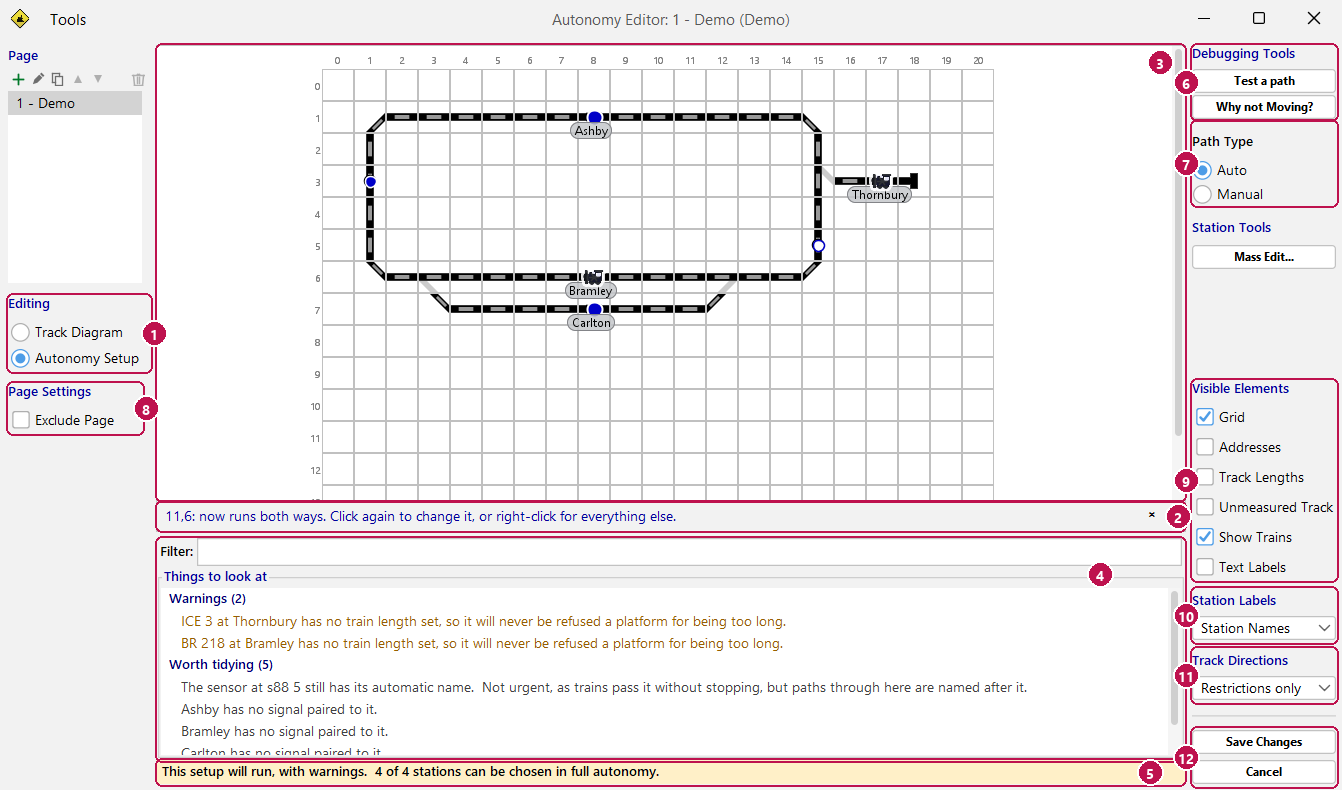
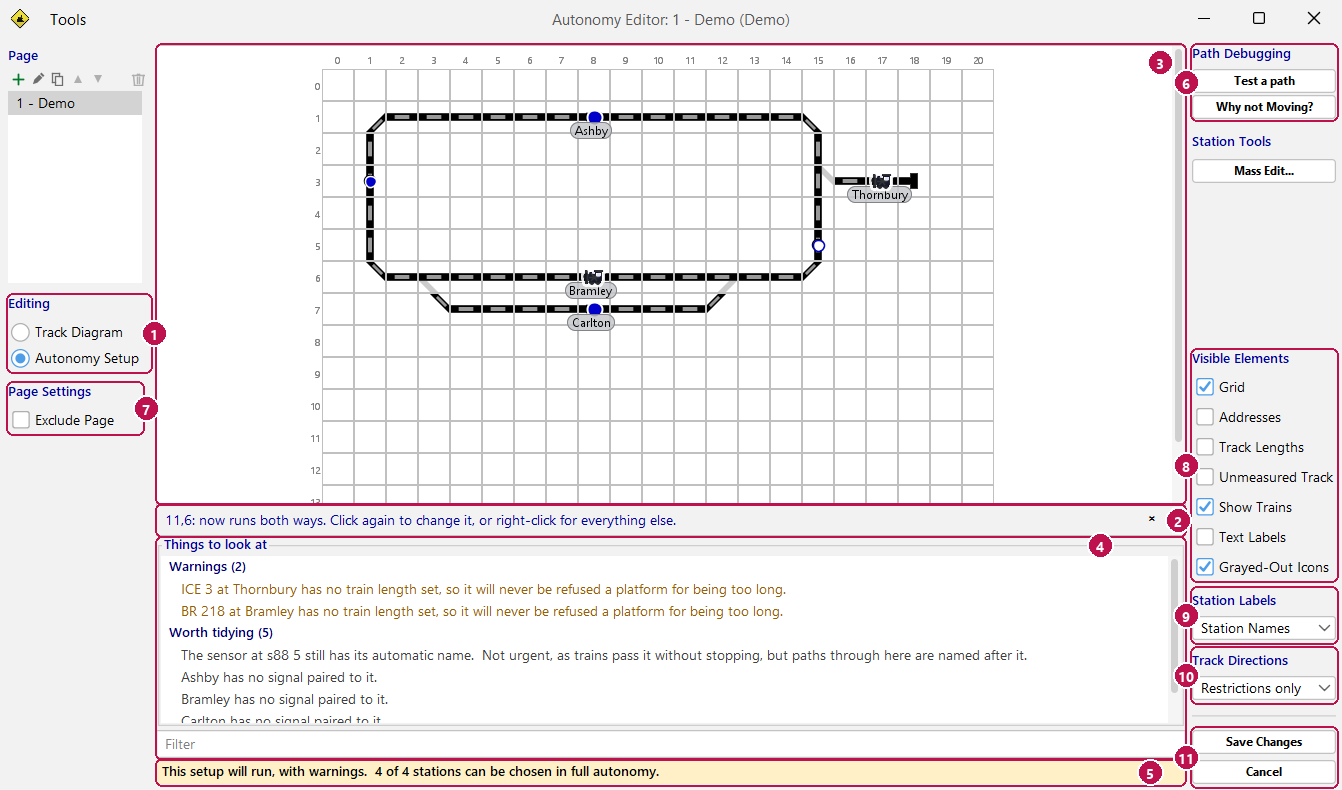
OB-495: guide pictures retaken for 3.1.1, and the keyboard pictures get FR-200's keys
Automation.md: 01-editor (Path Debugging, no Path Type, Station Tools under it,
Grayed-Out Icons, the Filter box under the list; renumbered 1 to 11 in the
list's order), 07 and 08 (the new right column; Why not Moving? as a table),
station_settings, 10 and 11 (the length box with arrows and Any, Advanced's *,
no arrival arrows where every side may arrive; Thornbury with Terminus pressed,
so it no longer runs trains through), 17-mass-edit (Any, Advanced's *).  Painted
at 1x from a temporary test class on the demo layout, Bramley given priority 1
for the *.  Text: the Filter box is under the list; Advanced's *; the picture's
arrows into a station show only once a side is closed.

keyboard.png: Control+G start autonomy, Control+H return home, Control+Q
graceful stop.  keyboard_editor.png: Control+V place loc and Delete remove
train in the autonomy editor, Control+Enter save changes, and the note no
longer says paste and Delete do nothing there.  Patched in place, as before.

diff --git a/Automation.md b/Automation.md
@@ -128,7 +128,7 @@ The window's title is "Autonomy Editor: *page* (*configuration*)". The sidebar i
 - **`Editing`**: `Track Diagram` switches to drawing track and `Autonomy Setup` to setting up autonomy, on the same page. With two or more pages, a `Page` list above it moves between pages.
 - **The message strip** says what just happened and what to do next.
 - **Your diagram.** Click track to set which way trains may run; right-click any square for everything else. Hover over a station to see its name. Signals and lamps are drawn in gray to keep the picture simple; while you pick a guard signal, the signals you can pick are in color.
-- **`Things to look at`** lists what the [setup check](#the-setup-check) has found. Click a finding to go to its square, or double-click it (or press Control+O) to open that station's `Station Settings`. The `Filter` box above the list narrows it as you type: it matches any part of a row's words, ignoring capitals, and the counts elsewhere still count everything.
+- **`Things to look at`** lists what the [setup check](#the-setup-check) has found. Click a finding to go to its square, or double-click it (or press Control+O) to open that station's `Station Settings`. The `Filter` box under the list narrows it as you type: it matches any part of a row's words, ignoring capitals, and the counts elsewhere still count everything.
 - **The line under it** says whether the setup is ready to run.
 - **`Path Debugging`**: `Test a path` and `Why not Moving?`. Each answers both for autonomy choosing a destination and for a train you send yourself (and Return Home); see [Test a path, Why not Moving? and One-Way Run](#test-a-path-why-not-moving-and-one-way-run).
 - **`Page Settings`**: `Exclude Page` leaves this whole page out of autonomy: its sensors stop being stations and nothing on it is driven. Put it back from `Autonomy` → `Pages with Autonomy Enabled`.
@@ -225,7 +225,7 @@ Everything else about a station is in its `Station Settings`: its name, whether 
     - `Exit guard signal` and `Entry guard signal`: the signals that follow the station. The pencil beside each picks them, in a window that opens just under `Station Settings`. Add a signal with `Click It on the Diagram` or `Enter Its Address...`, and take one off with the red X at the end of its row.
     - `Home locomotive`: the train Return Home brings back here, or `(none)`.
 - `Trains can pass through`: whether trains may pass over the square without stopping.
-- `Advanced`, folded away until you open it: `Priority` (higher is chosen first; 0 is the default), `Speed into here` (trains run at this percentage of their speed on the track leading in), `Allowed trains` and `Unavailable while`.
+- `Advanced`, folded away until you open it, and marked with a `*` while a setting under it is not at its default (or, for several stations, while they differ on one): `Priority` (higher is chosen first; 0 is the default), `Speed into here` (trains run at this percentage of their speed on the track leading in), `Allowed trains` and `Unavailable while`.
     - `Allowed trains` is `All`, `Blacklist` or `Whitelist`. For the last two, the pencil beside it opens the list of trains. A blacklisted train may not stop here, though it can still pass through; on a sensor that is not a station it may not pass at all. On a whitelist only the trains you pick are allowed: every other train, including any you add later, is kept out, and an empty whitelist keeps every train out. Going back to `All` keeps the list for next time.
     - `Unavailable while` lists other stations that keep trains away from this one while they are occupied.
 
@@ -254,7 +254,7 @@ Everything else about a station is in its `Station Settings`: its name, whether 
 
 A station with only `Trains can stop here` ticked is not a terminus: a train may set off again the way it was going, as `May depart` allows. Autonomy and the trips you send by hand won't plan a route through it. Return Home is the exception, and may run through it.
 
-**The picture, `On the track diagram`.** The station and the track beside it, drawn as the diagram draws them. The station has a red outline arrow only at a side `May depart` keeps trains from leaving by. An arrow into the station marks a side trains may arrive from and stop. The track beside it has the diagram's arrows: green where trains may run that way, a red outline where they may not. Click a way into the station or a neighbor's arrow to change it. Signals are shown in gray.
+**The picture, `On the track diagram`.** The station and the track beside it, drawn as the diagram draws them. The station has a red outline arrow only at a side `May depart` keeps trains from leaving by. Once `May arrive from` closes a side, an arrow into the station shows each side: yellow where trains may arrive and stop, gray where they may not. A station that takes trains from every side shows none, as on the track diagram. The track beside it has the diagram's arrows: green where trains may run that way, a red outline where they may not. Click a way into the station or a neighbor's arrow to change it. Signals are shown in gray.
 
 **The table, `What's allowed here`.** For `Sent here`, `Sent through here`, `Sent from here` and `Turned around here`, it says `Yes`, `Some trains` or `No`, both for trains chosen `Automatically` by autonomy and for trains sent `Manually` from the right-click menu. Rest the pointer on a cell for the reason.
 
@@ -487,11 +487,11 @@ Autonomy chooses T like any other station. If T is a parking track or a shunting
 
 Some stations only make sense to arrive at from one direction: a platform on a one-way loop, a bay that faces east, or a station where arriving from the west means fouling a junction.
 
-Right-click the station, open `Station Settings...` and look at **`May arrive from`**. By default a station takes trains from every side. Untick the sides you do not want, and TrainControl only routes trains to it from the sides you left ticked. The last open side cannot be unticked, and a station with only one way in has nothing to choose. Clicking the arrows into the station in the window's picture does the same.
+Right-click the station, open `Station Settings...` and look at **`May arrive from`**. By default a station takes trains from every side. Untick the sides you do not want, and TrainControl only routes trains to it from the sides you left ticked. The last open side cannot be unticked, and a station with only one way in has nothing to choose. Once a side is closed, the window's picture shows an arrow into the station at each side, and clicking one opens or closes that side too.
 
 Set `Track Directions` to `Station Arrivals` to see, for every station at once, the sides it takes trains from.
 
-![Bramley's Station Settings: May arrive from, with both sides open](assets/automation/11-arrivals.png)
+![Bramley's Station Settings: May arrive from, with both sides open, so the picture draws no arrows into the station](assets/automation/11-arrivals.png)
 
 **Where this matters most** is a station that is really two platforms. On the diagram it is one square, but a train arriving from the east and a train arriving from the west need different switches set and occupy different track. Arrival sides say which of those you want.
 
